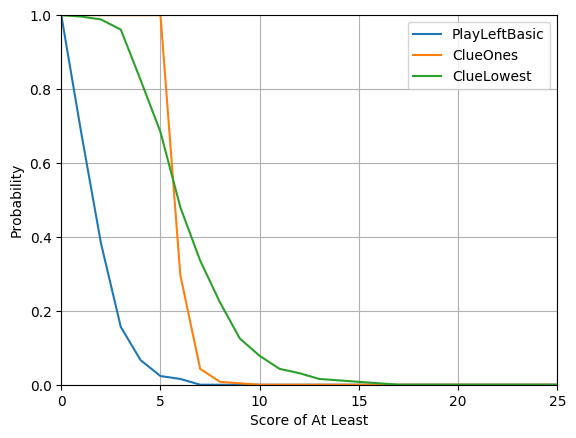
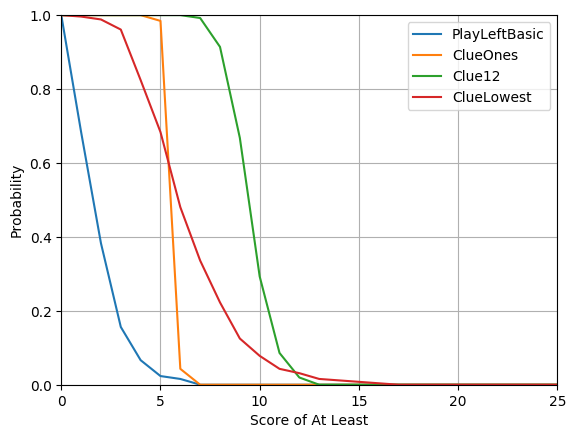
Track progress (?)

diff --git a/play.py b/play.py
@@ -5,13 +5,19 @@ from player.playleft import PlayLeft
 import util
 from player.playleft_basic import PlayLeftBasic
 from player.clueones import ClueOnes
+from player.clue12 import Clue12
 from player.clueplayableleft import CluePlayableLeft
 from player.cluelowest import ClueLowest
 import logging
 import sys
 import matplotlib.pyplot as plt
+import os
 
 N_PLAYERS = 4
+
+results_dir = 'results'
+if not os.path.exists(results_dir):
+    os.makedirs(results_dir)
 
 # logging.basicConfig(filename='hanabi.log', filemode='w', level=logging.DEBUG, format='%(message)s')
 logging.basicConfig(filename='hanabi.log', filemode='w', level=logging.DEBUG, format='%(message)s')
@@ -25,7 +31,8 @@ log.addHandler(ch)
 # still print to stdout
 # but also save output to log
 
-PlayerTypes = (PlayLeftBasic, ClueOnes, ClueLowest)
+PlayerTypes = (PlayLeftBasic, ClueOnes, Clue12, ClueLowest)
+redo = np.array([False, True, True, False])
 N_types = len(PlayerTypes)
 N_trials = 2**8
 scores = np.zeros((N_types, N_trials), dtype=int)
@@ -33,10 +40,15 @@ hists = np.zeros((N_types, util.N_PLAYABLE+1))
 bins = np.arange(util.N_PLAYABLE+2) - .5
 
 for tt, PlayerType in enumerate(PlayerTypes):
-    np.random.seed(0)
-    for nn in range(N_trials):
-        h = Hanabi(N_PLAYERS, PlayerType)
-        scores[tt, nn] = h.play()
+    results_fn = os.path.join(results_dir, PlayerType.__name__ + '.npy')
+    if redo[tt] or not os.path.isfile(results_fn):
+        np.random.seed(0)
+        for nn in range(N_trials):
+            h = Hanabi(N_PLAYERS, PlayerType)
+            scores[tt, nn] = h.play()
+        np.save(results_fn, scores[tt])
+    else:
+        scores[tt] = np.load(results_fn)
     hists[tt, :] = np.flip(np.cumsum(np.flip(np.histogram(scores[tt], bins)[0], 0)), 0).astype(np.double)/N_trials
 
 plt.plot(hists.T)
@@ -51,5 +63,4 @@ plt.savefig('results.png', bbox_inches='tight')
 print(np.mean(scores, axis=1))
 print(np.max(scores, axis=1))
 
-np.save('scores.npy', scores, hists)
-np.savetxt('scores.txt', scores, fmt='%i')
+np.savetxt(os.path.join(results_dir, 'scores.txt'), scores, fmt='%i')

diff --git a/player/clue12.py b/player/clue12.py
@@ -3,7 +3,7 @@ import util
 import numpy as np
 
 
-class ClueOnes:
+class Clue12:
     def __init__(self, n_players, n_handcards):
         r"""Initialize a player.
 
@@ -88,6 +88,17 @@ class ClueOnes:
                 player_idx = np.where(np.sum(is_cluable_one, axis=1))[0][0]
                 clue_idxs = np.where(is_one[player_idx, ...])[0]
                 clue = (player_idx, clue_type, 0, clue_idxs)
+                action = ('clue', clue)
+                return action
+
+            is_two = np.sum(self.hands[:-1, ...], axis=3)[..., 1] > 0
+            is_known_two = np.sum(np.sum(self.clues_hands[:-1, ...], axis=3)[..., np.array([0, 2, 3, 4])], axis=2) == 0
+            is_cluable_two = np.logical_and(is_two, np.logical_not(is_known_two))
+            if np.any(is_cluable_two):
+                clue_type = 'number'
+                player_idx = np.where(np.sum(is_cluable_two, axis=1))[0][0]
+                clue_idxs = np.where(is_two[player_idx, ...])[0]
+                clue = (player_idx, clue_type, 1, clue_idxs)
                 action = ('clue', clue)
                 return action
 
@@ -270,7 +281,7 @@ def get_useless_cards(table, discards):
     max_color_scores = get_max_color_scores(discards)
     for color_idx in range(util.N_COLORS):
         useless_cards[np.sum(table[:, color_idx]):max_color_scores[color_idx], color_idx] = 0
-    useless_cards[1:, :] = 1
+    useless_cards[0, :] = 0
     return useless_cards
 
 

diff --git a/play_single.py b/play_single.py
@@ -1,0 +1,46 @@
+from hanabi import Hanabi
+import numpy as np
+from player.playsleft import PlaysLeftPlayer
+from player.playleft import PlayLeft
+import util
+from player.playleft_basic import PlayLeftBasic
+from player.clueones import ClueOnes
+from player.clue12 import Clue12
+from player.clueplayableleft import CluePlayableLeft
+from player.cluelowest import ClueLowest
+import logging
+import sys
+import matplotlib.pyplot as plt
+import os
+
+N_PLAYERS = 4
+
+results_dir = 'results'
+if not os.path.exists(results_dir):
+    os.makedirs(results_dir)
+
+# logging.basicConfig(filename='hanabi.log', filemode='w', level=logging.DEBUG, format='%(message)s')
+logging.basicConfig(filename='hanabi_single.log', filemode='w', level=logging.DEBUG, format='%(message)s')
+log = logging.getLogger()
+log.setLevel(logging.DEBUG)
+ch = logging.StreamHandler(sys.stdout)
+ch.setLevel(logging.DEBUG)
+# ch.setLevel(logging.WARNING)
+log.addHandler(ch)
+
+# still print to stdout
+# but also save output to log
+
+PlayerTypes = (ClueOnes, Clue12, )
+N_types = len(PlayerTypes)
+N_trials = 1
+scores = np.zeros((N_types, N_trials), dtype=int)
+
+for tt, PlayerType in enumerate(PlayerTypes):
+    np.random.seed(0)
+    for nn in range(N_trials):
+        h = Hanabi(N_PLAYERS, PlayerType)
+        scores[tt, nn] = h.play()
+
+print(np.mean(scores, axis=1))
+print(np.max(scores, axis=1))
